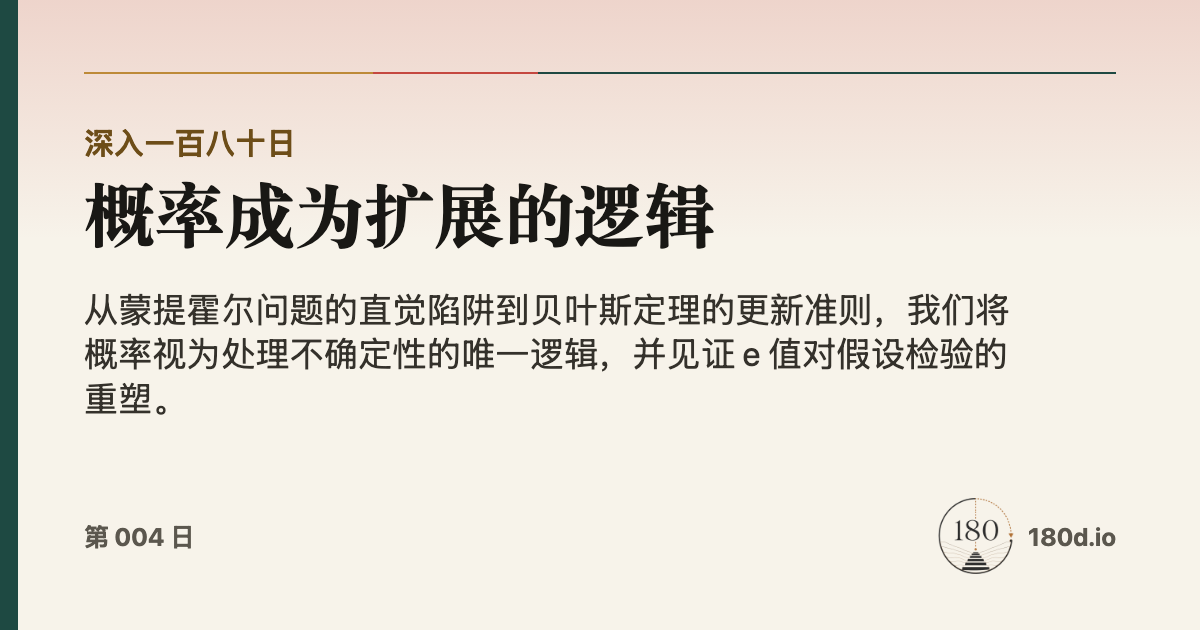
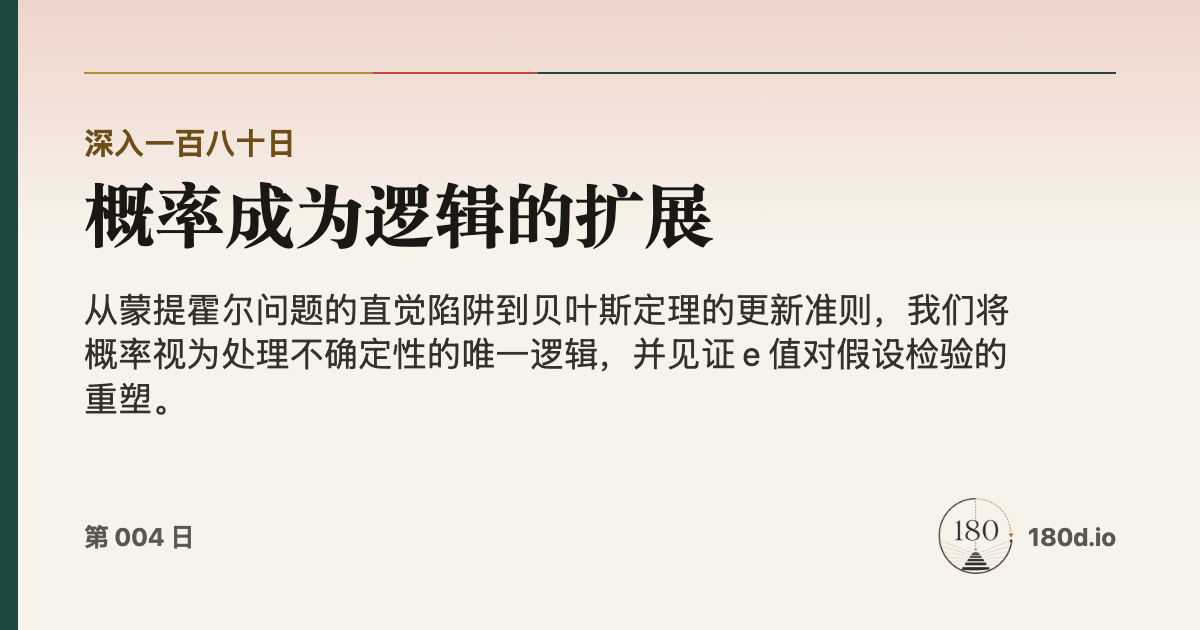
fix: refine day 3 and day 4 wording

Changed region(s): [[0.4625, 0.2714, 0.6167, 0.3921], [0.3083, 0.2714, 0.4317, 0.3921]]

diff --git a/src/assets/css/book.css b/src/assets/css/book.css
@@ -643,6 +643,7 @@ html[lang^="zh"] .mh-step,html[lang^="zh"] .mh-mode{letter-spacing:0;text-transf
 .claim .cnum{font-family:"IBM Plex Mono",monospace;font-size:.72rem;color:var(--brass);letter-spacing:.1em;}
 .recap{background:var(--ink);color:var(--paper);border-radius:14px;padding:1.6rem 1.5rem;margin:2.5rem 0;}
 .recap strong{color:var(--paper);}
+.recap .term,.recap .hl{color:currentColor;font-weight:600;}
 .recap a{color:#6fcbd3;border-bottom-color:color-mix(in srgb,#6fcbd3 45%,transparent);}
 .recap .h{color:#d4a648;}
 .recap dl{margin:0;display:grid;grid-template-columns:1fr;gap:.9rem;}

diff --git a/src/zh/days/day-004-probability-as-extended-logic.md b/src/zh/days/day-004-probability-as-extended-logic.md
@@ -3,7 +3,7 @@ layout: layouts/day.njk
 tags: zhDay
 locale: zh
 day: 4
-title: "概率成为扩展的逻辑"
+title: "概率成为逻辑的扩展"
 summary: "从蒙提霍尔问题的直觉陷阱到贝叶斯定理的更新准则，我们将概率视为处理不确定性的唯一逻辑，并见证 e 值对假设检验的重塑。"
 block: 知识与推理的根基
 slug: probability-as-extended-logic
